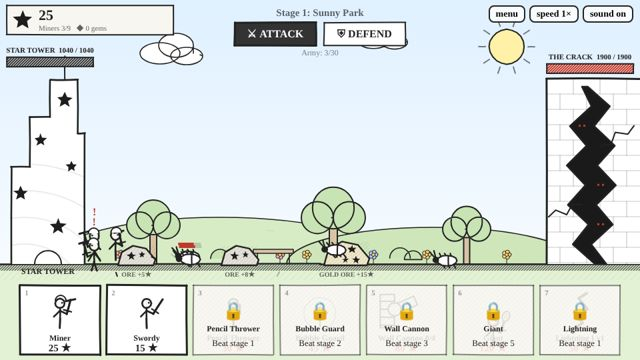
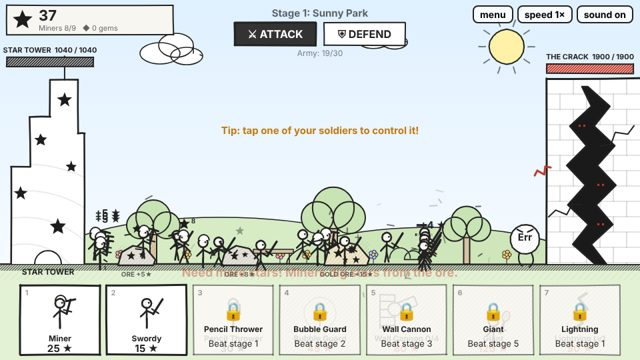
Star Army: switch to a regular sans-serif font
Replace the handwriting-style font with the system UI font in both the
page CSS and canvas text, and refresh the lobby thumbnail.

Claude-Session: https://claude.ai/code/session_012zsgkV4DVUGYw2WCcTi7S9

diff --git a/star-army/index.html b/star-army/index.html
@@ -15,7 +15,7 @@
 <style>
 :root{--ink:#222;--paper:#f8f6f0}
 *{box-sizing:border-box}
-html,body{margin:0;height:100%;background:#3a3a3a;overflow:hidden;touch-action:none;-webkit-user-select:none;user-select:none;-webkit-touch-callout:none;font-family:"Comic Sans MS","Chalkboard SE","Comic Neue","Marker Felt",cursive;color:var(--ink)}
+html,body{margin:0;height:100%;background:#3a3a3a;overflow:hidden;touch-action:none;-webkit-user-select:none;user-select:none;-webkit-touch-callout:none;font-family:system-ui,-apple-system,"Segoe UI",Roboto,"Helvetica Neue",Arial,sans-serif;color:var(--ink)}
 #wrap{position:fixed;inset:0;display:flex;align-items:center;justify-content:center}
 canvas{display:block;background:var(--paper);box-shadow:0 8px 40px rgba(0,0,0,.55);touch-action:none}
 .ov{position:fixed;inset:0;display:none;align-items:center;justify-content:center;background:rgba(20,20,20,.5);z-index:10;padding:12px}
@@ -110,7 +110,7 @@ ul{text-align:left;margin:6px auto;padding-left:22px;max-width:480px;font-size:1
 
 <script>
 const W=960,H=540,INK='#222',RED='#c0392b',PAPER='#f8f6f0',GROUND=396;
-const FONT='"Comic Sans MS","Chalkboard SE","Comic Neue","Marker Felt",cursive';
+const FONT='system-ui,-apple-system,"Segoe UI",Roboto,"Helvetica Neue",Arial,sans-serif';
 const $=id=>document.getElementById(id);
 const cv=$('c');let ctx=cv.getContext('2d');
 function resize(){const s=Math.min(innerWidth/W,innerHeight/H);const d=Math.min(window.devicePixelRatio||1,2);
